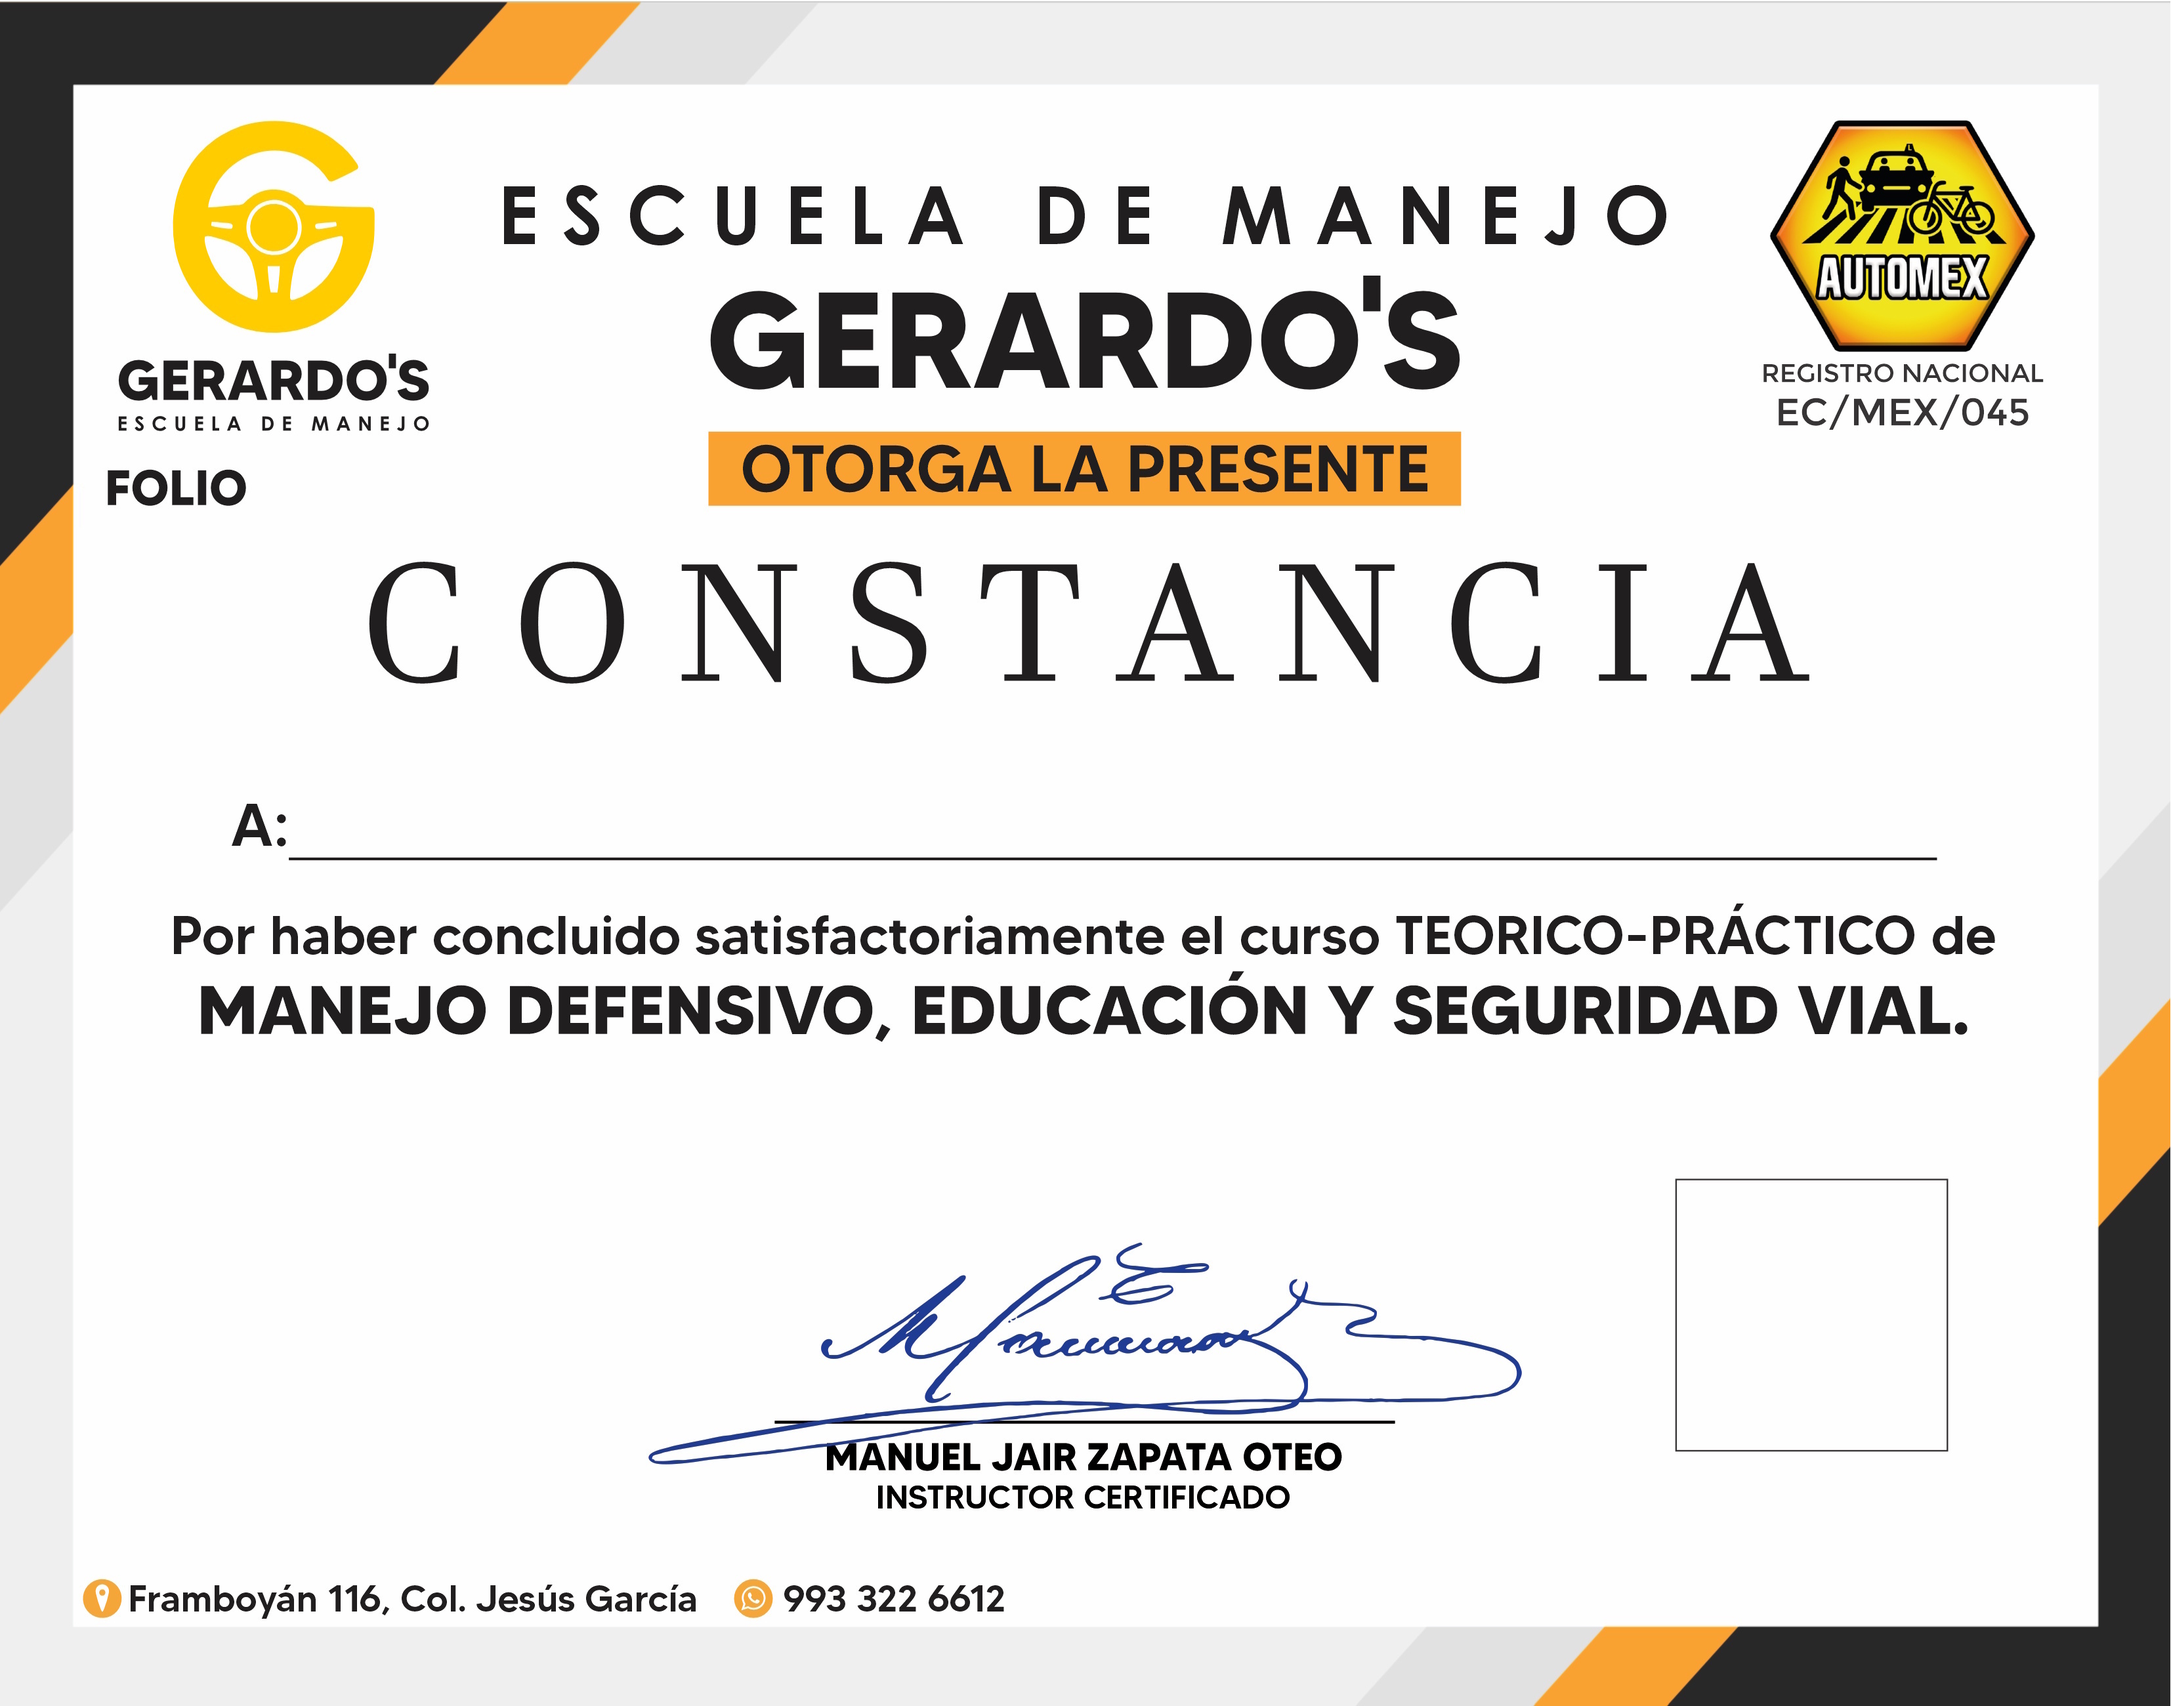
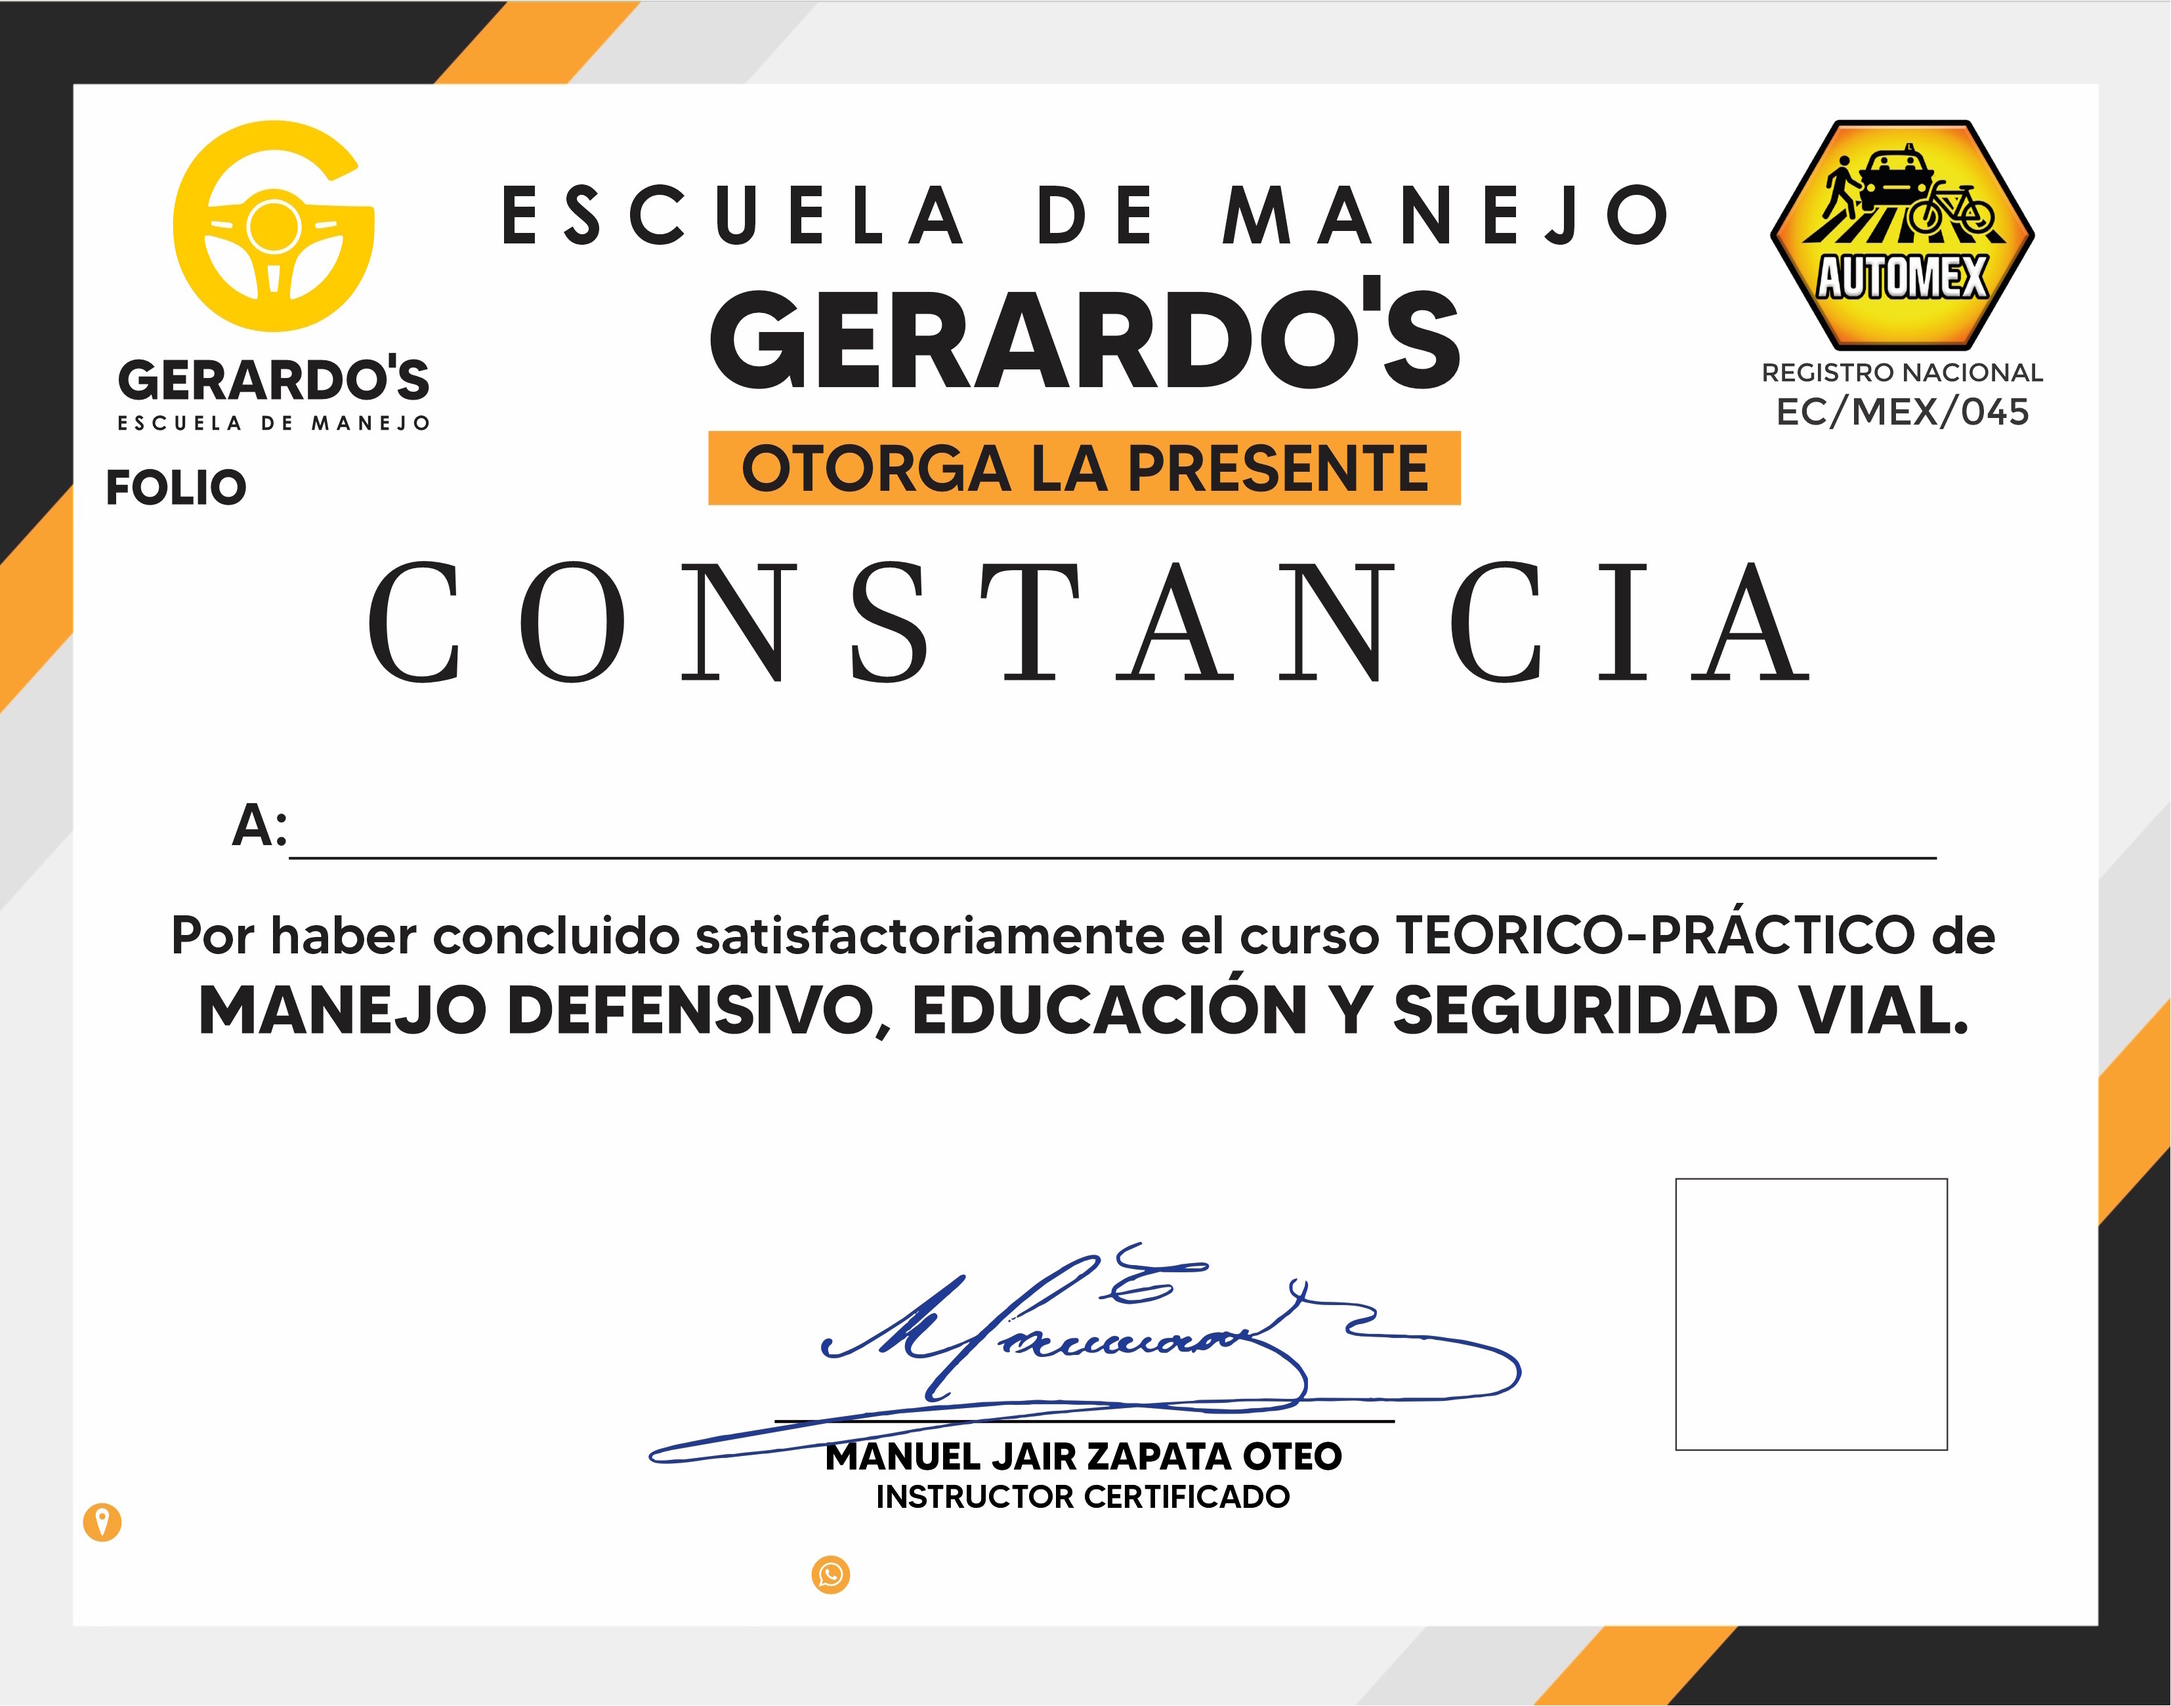
Cambios

diff --git a/app/Libraries/Documentos.php b/app/Libraries/Documentos.php
@@ -48,9 +48,14 @@ class Documentos
         }
         $pdf->Cell(260, 5, $this->UFT8($periodoTxt, "UTF-8"), 0, 1, "C");
         $fecha = \App\Libraries\Utilidades::date_to_text($constancia["fecha"], false, "d");
-        $pdf->SetFont('Arial', 'B', 15);
-        $pdf->SetXY(140, 196);
-        $pdf->Cell(212, 12, $this->UFT8("Villahermosa, Tabasco a {$fecha['d']} de {$fecha['m']} de {$fecha['y']}", "UTF-8"), 0, 1, "L");
+        $pdf->SetFont('Arial', 'B', 14);
+        $pdf->SetXY(16, 190);
+        $pdf->Cell(70, 6, $this->UFT8("Zenzontle 162,", "UTF-8"), 0, 1, "L");
+        $pdf->Cell(87, 6, $this->UFT8("Fracc. la Ceiba Deportiva C.P. 86127", "UTF-8"), 0, 1, "L");
+        $pdf->SetXY(110, 196);
+        $pdf->Cell(212, 6, $this->UFT8("993 322 6612", "UTF-8"), 0, 1, "L");
+        $pdf->SetXY(149, 196);
+        $pdf->Cell(120, 6, $this->UFT8("Villahermosa, Tabasco a {$fecha['d']} de diciembre de {$fecha['y']}", "UTF-8"), 0, 1, "R");
         die($pdf->Output("I"));
     }
 
